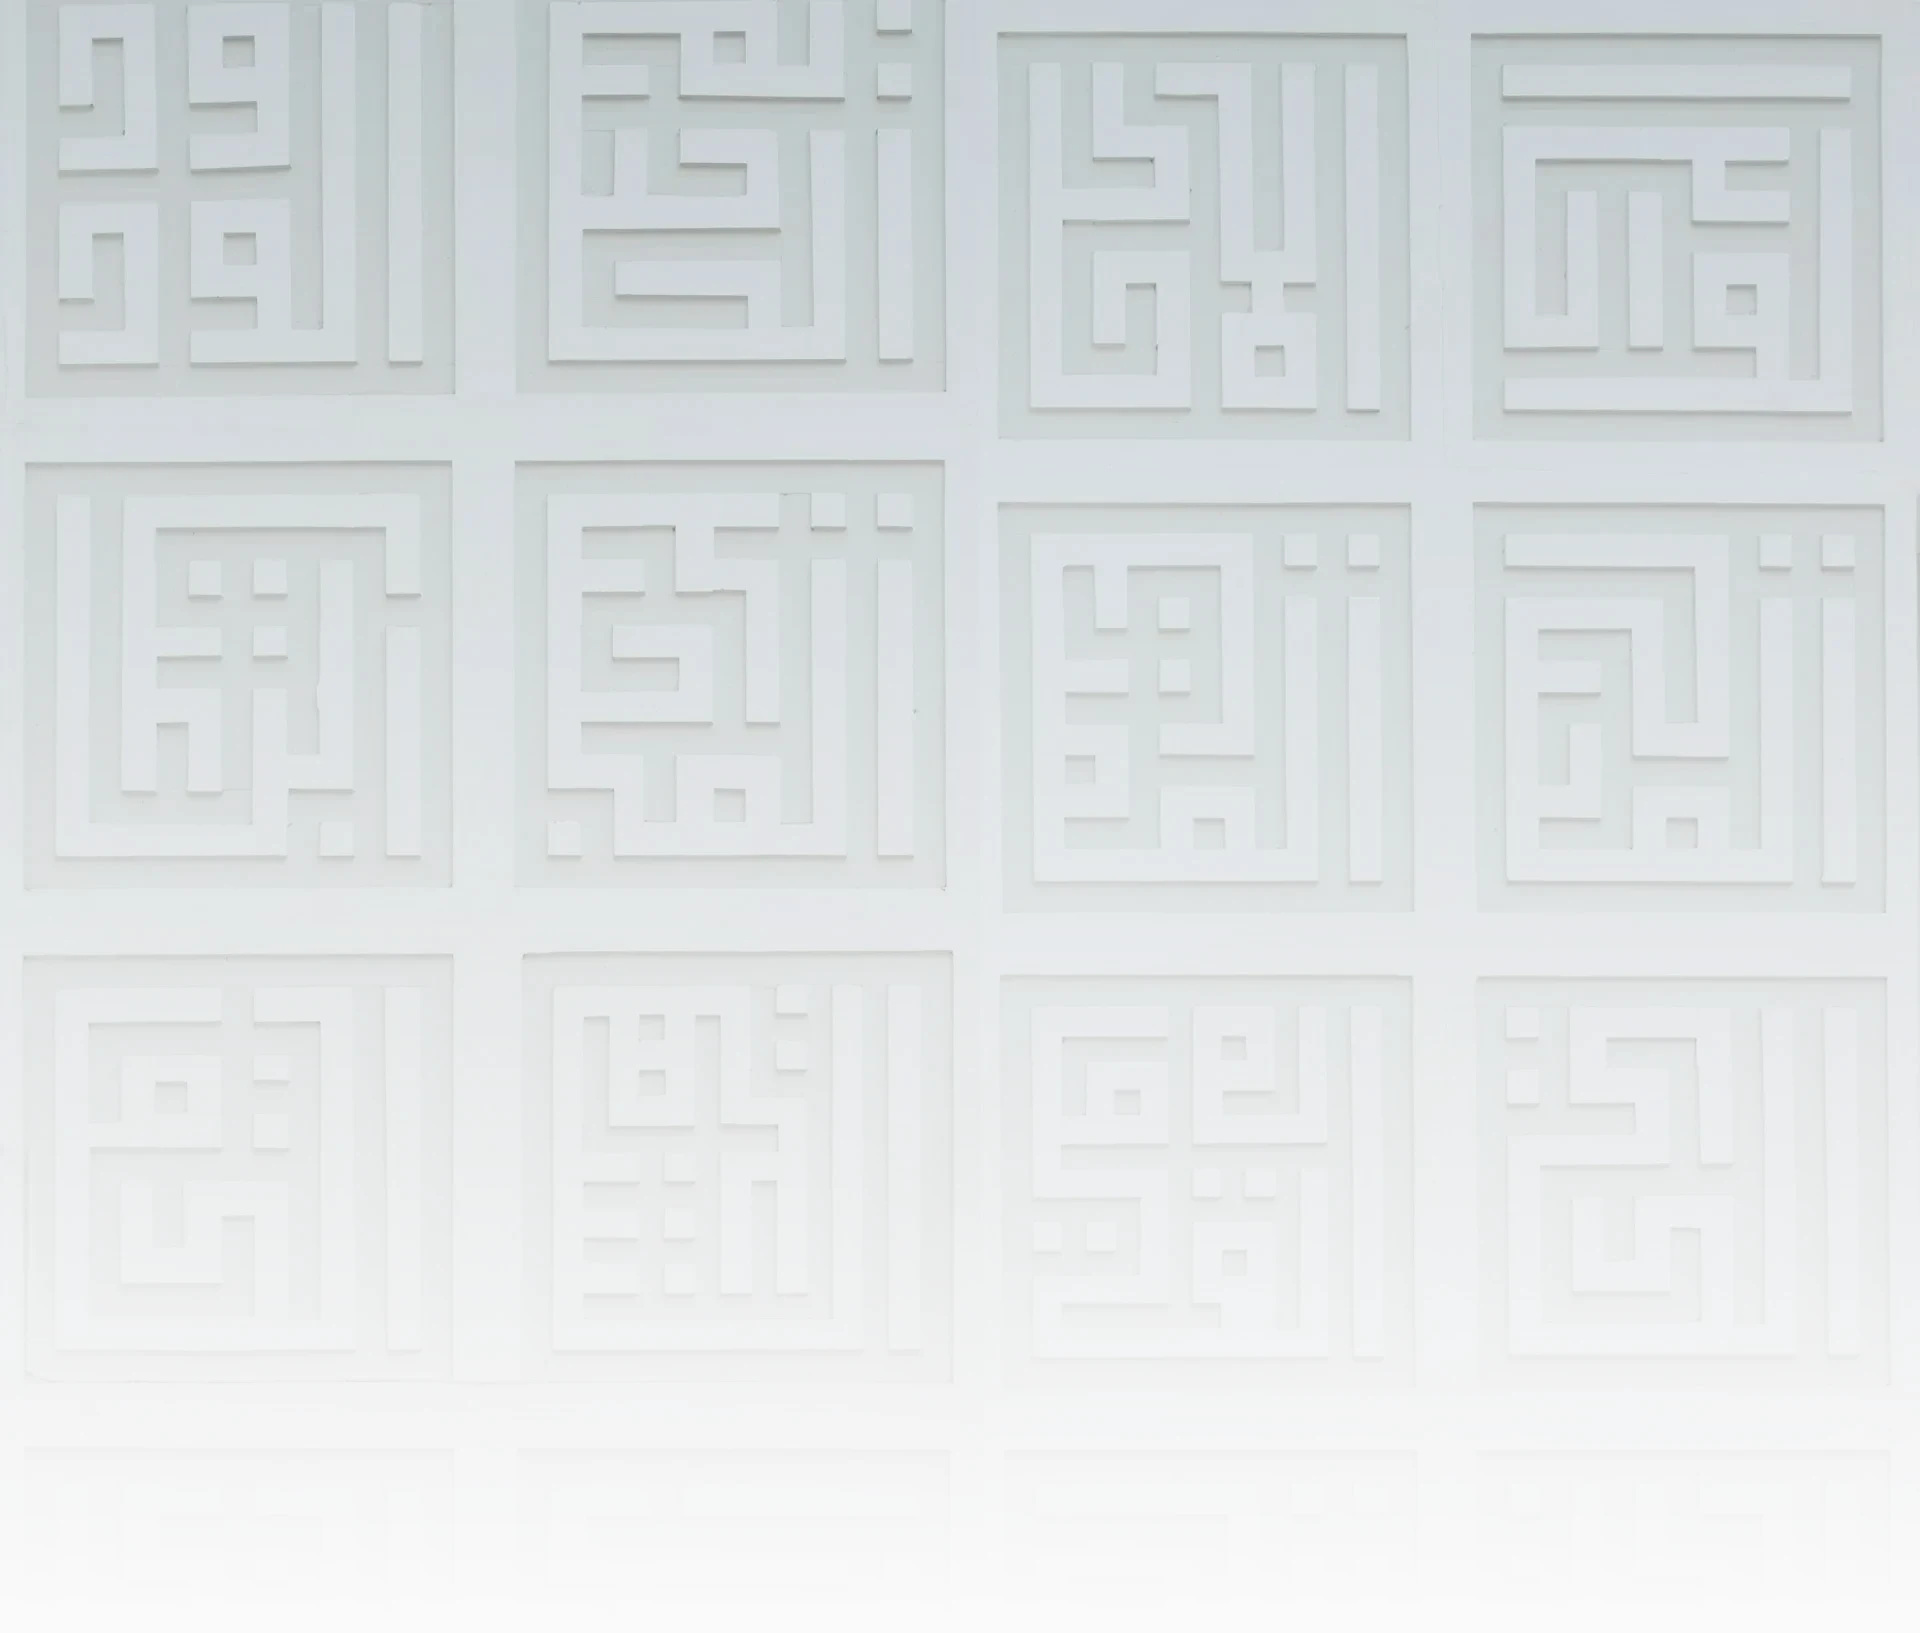
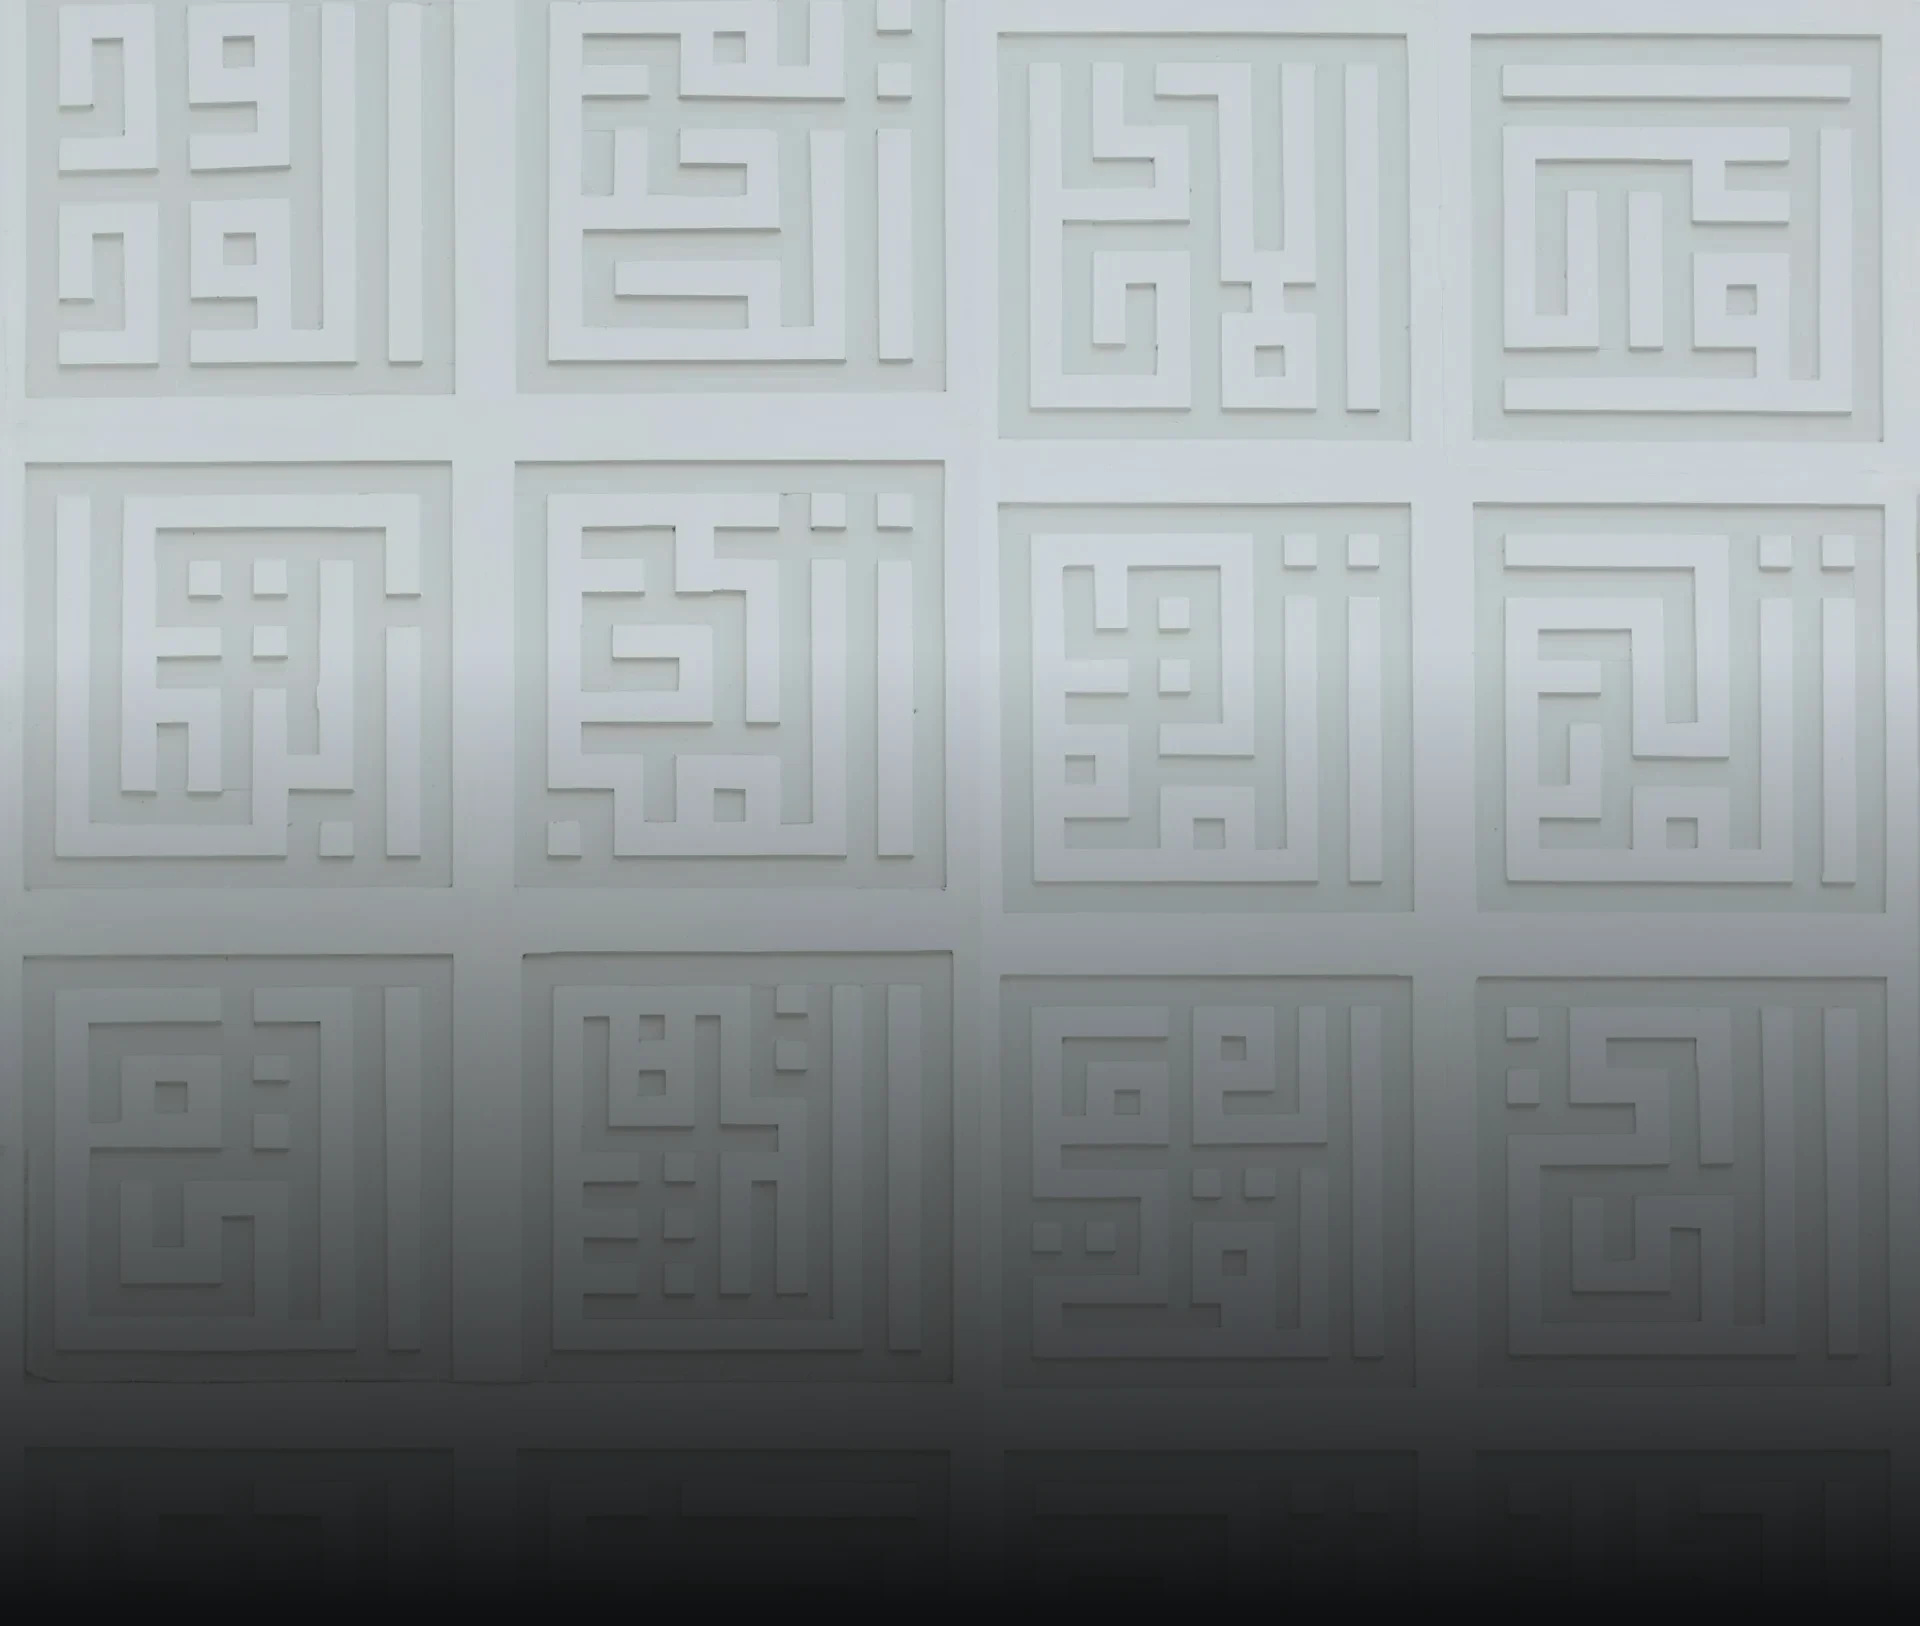
feat: dark mode

diff --git a/lib/app/features/login/login.dart b/lib/app/features/login/login.dart
@@ -1,4 +1,4 @@
-import 'package:flutter/widgets.dart';
+import 'package:flutter/material.dart';
 import 'package:track_me/app/core/core.dart';
 import 'package:track_me/app/features/login/widgets/login_form.dart';
 
@@ -26,18 +26,38 @@ class Login extends StatelessWidget {
               child: Column(
                 mainAxisSize: MainAxisSize.min,
                 children: [
-                  const SizedBox(height: 10),
-                  const Text(
-                    'TrackMe',
-                    style: TextStyle(
-                      fontSize: 30,
-                      fontWeight: FontWeight.bold,
-                    ),
+                  const SizedBox(height: 30),
+                  Row(
+                    mainAxisSize: MainAxisSize.min,
+                    children: [
+                      Container(
+                        width: 44,
+                        height: 44,
+                        decoration: const BoxDecoration(
+                          image: DecorationImage(
+                            image: AssetImage('assets/icons/logo-white.png'),
+                            fit: BoxFit.cover,
+                          ),
+                        ),
+                      ),
+                      const SizedBox(width: 6),
+                      const Text(
+                        'TrackMe',
+                        style: TextStyle(
+                          fontSize: 30,
+                          fontWeight: FontWeight.bold,
+                          color: Colors.white,
+                        ),
+                      ),
+                    ],
                   ),
                   const Text(
                     'Insert your name to start',
                     textAlign: TextAlign.center,
-                    style: TextStyle(fontSize: 22),
+                    style: TextStyle(
+                      fontSize: 22,
+                      color: Colors.white,
+                    ),
                   ),
                   const SizedBox(height: 30),
                   SizedBox(

diff --git a/lib/app/core/widgets/tm_input.dart b/lib/app/core/widgets/tm_input.dart
@@ -20,18 +20,18 @@ class TmInput extends StatelessWidget {
       onChanged: onChanged,
       enableSuggestions: false,
       autocorrect: false,
-      style: const TextStyle(fontSize: 15),
+      style: const TextStyle(fontSize: 15, color: Colors.white),
       decoration: InputDecoration(
         hintText: label,
         hintStyle: const TextStyle(
-          color: Colors.black,
+          color: Colors.white,
           fontSize: 15,
           fontWeight: FontWeight.w400,
         ),
         prefixIcon: Container(
           width: 22,
           alignment: Alignment.center,
-          padding: const EdgeInsets.only(left: 5),
+          padding: const EdgeInsets.only(left: 3),
           child: icon,
         ),
         prefixIconConstraints: const BoxConstraints(minWidth: 50),
@@ -44,7 +44,7 @@ class TmInput extends StatelessWidget {
           borderRadius: BorderRadius.circular(50),
         ),
         filled: true,
-        fillColor: const Color(0xFFF0EFEF),
+        fillColor: const Color(0xFF202122),
       ),
     );
   }

diff --git a/lib/app/features/login/widgets/login_form.dart b/lib/app/features/login/widgets/login_form.dart
@@ -1,4 +1,5 @@
 import 'package:flutter/cupertino.dart';
+import 'package:flutter/material.dart';
 import 'package:flutter_riverpod/flutter_riverpod.dart';
 import 'package:go_router/go_router.dart';
 import 'package:track_me/app/core/core.dart';
@@ -21,7 +22,10 @@ class LoginForm extends ConsumerWidget {
         TmInput(
           keyboardType: TextInputType.emailAddress,
           label: 'Name',
-          icon: const Icon(CupertinoIcons.profile_circled),
+          icon: const Icon(
+            CupertinoIcons.profile_circled,
+            color: Colors.white,
+          ),
           onChanged: loginNotifier.setName,
         ),
         const SizedBox(height: 30),

diff --git a/lib/app/app.dart b/lib/app/app.dart
@@ -13,7 +13,7 @@ class App extends StatelessWidget {
         textTheme: GoogleFonts.latoTextTheme(theme.textTheme).copyWith(
           labelMedium: const TextStyle(
             fontSize: 18,
-            fontWeight: FontWeight.w500,
+            fontWeight: FontWeight.bold,
           ),
         ),
       ),
@@ -25,5 +25,5 @@ class App extends StatelessWidget {
 
 final theme = ThemeData(
   primaryColor: const Color(0xFFF5004F),
-  scaffoldBackgroundColor: const Color(0xFFFBFBFB),
+  scaffoldBackgroundColor: const Color(0xFF0D0E0F),
 );
